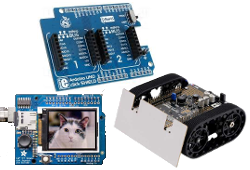
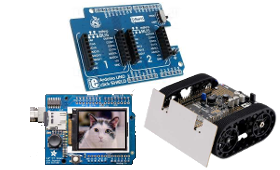
Made changes and additions to FEZ page and TinyCLR intro page as well as other small changes.

diff --git a/fez/intro.md b/fez/intro.md
@@ -1,15 +1,89 @@
 # FEZ Introduction
 ---
-
 ![FEZ](images/fez_noborder.jpg)
 
-FEZ (fast and easy) is the official board for TinyCLR OS. This low-cost, WiFi IoT-ready, Arduino-pinout compatible, and TinyCLR-OS-ready board is everything a developer needs to evaluate TinyCLR OS and to build modern IoT applications.
+FEZ (fast and easy) is the ultimate maker board. This low cost board offers Arduino pinout compatibility, optional WiFi for IOT applications, and can be programmed using multiple programming languages and development environments including:
+
+* Visual Basic and C# using our TinyCLR operating system and Microsoft's Visual Studio development environment.
+* Arduino multi platform development environment.
+* Mbed online development environment using C/C++
+* MicroPython
+* C/C++ using GCC, Keil, or any compiler supporting the Cortex-M4 architecture (for more advanced users).
 
 |  |  |
 |--|--|
-| **TinyCLR** </br> [Learn more...](tinyclr.md) | **Arduino** </br> [Learn more...](arduino.md) |
+| **TinyCLR** </br> Embedded programming using Visual Studio .NET. [Learn more...](tinyclr.md) | **Arduino** </br> Very popular open source standard. [Learn more...](arduino.md) |
 | [![TinyCLR](images/tinyclrlogo.jpg)](tinyclr.md) | [![Arduino](images/arduino_logo.png)](arduino.md) |
-| **Mbed** </br> [Learn more...](mbed.md) | **MicroPython** </br> [Learn more...](python.md) |
+| **Mbed** </br> Online free C/C++ compiler. [Learn more...](mbed.md) | **MicroPython** </br> A version of Python for microcontrollers. [Learn more...](python.md) |
 | [![Mbed Logo](images/mbed_logo.png)](mbed.md) | [![G400S](images/micro_python_logo.png)](python.md) |
-| **Plain Coding!** </br> [Learn more...](plain_coding.md) | **Accessories** </br> [Learn more...](accessories.md)
+| **Plain Coding!** </br> Use the Cortex-M4 compiler of your choice. [Learn more...](plain_coding.md) | **Accessories** </br> Selected to help get you started. [Learn more...](accessories.md)
 | [![Sample Code](images/code.png)](plain_coding.md) | [![Accessories](images/accessories.png)](accessories.md)
+
+## Specifications
+
+| Spec           | Value                           |
+|----------------|---------------------------------|
+| Processor      | STMicroelectronics ST32F401RET6 |
+| Speed          | 84 MHz                          |
+| Internal RAM   | 96 kB                           |
+| Internal Flash | 512 kB                          |
+| Dimensions     | 70.6 x 56.0 x 14.5 mm           |
+
+## Peripherals
+
+*Note:  Many peripherals share I/O pins.  Not all peripherals will be available to your application.*
+
+| Peripheral         | Quantity          |
+|--------------------|-------------------|
+| UART               | 1                 |
+| I2C                | 1                 |
+| SPI                | 1                 |
+| CAN                | 0                 |
+| 12 Bit ADC         | 7                 |
+| PWM                | 9                 |
+| GPIO (5V tolerant) | 22                |
+| IRQ                | 22                |
+| USB Client         | 1                 |
+| WiFi               | Optional          |
+
+## Using NETMF software
+We discourage the use of NETMF software on our products in favor of TinyCLR OS. [Read more](../legacy/netmf/intro.md) about the use of NETMF and TinyCLR OS.
+
+## Using TinyCLR OS
+TinyCLR is our own operating system and provides a means of programming embedded devices using .NET and Visual Studio.  Visual Studio is widely regarded as one of the best (if not the best) integrated development environments available.  The free Community version of Visual Studio can be downloaded here:  [Visual Studio Downloads](https://www.visualstudio.com/downloads/).  For information on setting up TinyCLR to work in Visual Studio please click here:  [TinyCLR Introduction](../tinyclr/intro.md)
+
+To use TinyCLR with the FEZ you must first install the latest verions of the GHI bootloader and TinyCLR firmware.
+
+### Loading the GHI Bootloader v2
+1. Download and save the latest [FEZCLR bootloader file](../tinyclr/loaders/ghi_bootloader.md#fezclr) (v2.x.x).
+2. Download and install the [DfuSe USB device firmware upgrade software](http://www.st.com/en/development-tools/stsw-stm32080.html#getsoftware-scroll) from STMicroelectronics (click on the blue [**Get Software**](http://www.st.com/en/development-tools/stsw-stm32080.html#getsoftware-scroll) button).
+3. Run the DfuSeDemo program installed in the previous step.  It should appear in the programs menu under `STMicroelectronics`.
+4. On the FEZ, hold down the BOOT0 button, press and release the RESET button, and then release the BOOT0 button.  `STM Device in DFU Mode` should now appear under `Available DFU Devices` at the upper left of the DfuSe Demo program screen.
+5. Near the bottom of the DfuSe Demo program window click on the `Choose...` button.  Find the bootloader file you saved in step 1 (FEZCLR Bootloader v2.x.x.dfu), click on it and click on the `Open` button.
+6. Now click on the upgrade button.  If a dialog box appears with "Your device was plugged in DFU mode..." click the `Yes` button.
+7. You should see a message at the bottom of the DfuSe Demo window saying the upgrade was successful.  Now reset the FEZ or click on the `Leave DFU mode` button.
+8. Congratulations!  You have successfully installed the GHI bootloader!
+
+### Loading the Firmware
+
+> [!Tip]
+> First make sure you have bootloader v2 loaded. This needs to be done only once.
+
+#### Using TinyCLR Config
+Our TinyCLR Config tool includes multiple features useful for working with TinyCLR-OS-enabled devices. It simplifies the firmware update and it includes options for accessing the TinyCLR firmware at runtime.
+
+Using this tool is the recommended path; however, the instructions for manually loading the firmware are included below. Read more on the [TinyCLR Config](../tinyclr/tinyclr_config.md) page.
+
+#### Manually Loading the Firmware
+We recommend using the TinyCLR Config tool to update the firmware. As a backup, use these instructions:
+
+1. Download and save the latest [FEZCLR firmware](../tinyclr/downloads.md#fezclr)
+2. Put the FEZ in bootloader mode: Hold down BTN1, press and release the RESET button, and then release BTN1.
+3. Open any terminal software, for example [Tera Term](http://ttssh2.osdn.jp/),
+4. Select serial and pick the COM port associated with your board. (If unsure, check Device Manager)
+5. Press `V` and then enter. The FEZ will respond with the installed boot loader version number (v2.x.x)
+6. Press `U` and then enter to start the upload firmware procedure.
+7. Press `Y` to confirm then enter. The FEZ will respond with `CCCC`...
+8. Go to `File` -> `Transfer` -> `XMODEM` -> `Send` and then check the `1K` option.
+9. Select the firmware file you downloaded in step 1.
+10. When the transfer is complete, use the RESET button to reset the FEZ.

diff --git a/tinyclr/intro.md b/tinyclr/intro.md
@@ -2,7 +2,7 @@
 ---
 ![TinyCLR Logo](images/tinyclrlogo_noborder.jpg)
 
-TinyCLR OS is our path forward that started with the [.NET Micro Framework](http://netmf.com/) to enable managed .NET development using Microsoft's Visual Studio on embedded devices -- including debugging features! All you need to get started is Visual Studio, a TinyCLR device, and a USB cable.
+TinyCLR OS is our path forward that started with the [.NET Micro Framework](http://netmf.com/) to enable managed .NET development using Microsoft's Visual Studio on embedded devices -- including debugging! All you need to get started is Visual Studio, a TinyCLR device, and a USB cable.
 
 |  |  |
 |--|--|
@@ -12,17 +12,22 @@ TinyCLR OS is our path forward that started with the [.NET Micro Framework](http
 | [![TinyCLR Config](images/tinyclr-config_sm.png)](tinyclr_config.md) | [![Download](images/download.jpg)](downloads.md) |
 | **Roadmap** </br> The future of TinyCLR. [Learn more...](roadmap.md) | **Supported Boards** </br> Some boards that run TinyCLR. [Learn more...](boards/intro.md) |
 | [![Road](images/road.jpg)](roadmap.md) | [![Boards](images/boards.png)](boards/intro.md) |
+| **Bootloaders** </br> [Learn more...](loaders/intro.md) |  |
+| [![Bootloader](images/bootloader.png)](loaders/intro.md) |  |
 
 > [!Tip]
-> TinyCLR OS is still an alpha so there is still a lot more to come!
+> TinyCLR OS is still an alpha so there is still a lot more to come!  Take a look at the [**release notes**](release_notes.md) to see what's new and the [**roadmap**](roadmap.md) to see what we have planned.
 
-TinyCLR OS is made for .NET developers. Threading, memory management, timers, event handlers, and many more exist in TinyCLR OS just like they do on full .NET. 
+## Using TinyCLR
 
-For interacting with hardware, TinyCLR OS has an API similar to the Windows 10 IoT Core Extensions API that you may already be familiar with. GPIO, UART, SPI, I2C, ADC, DAC, PWM, and more are all available for you to interact with the embedded world.
+TinyCLR OS opens the world of embedded programming to Microsoft .NET developers. Threading, memory management, timers, event handlers, and many more features are available in TinyCLR OS just like full .NET. 
 
-Better yet, all libraries are available through NuGet. Because of this, there will be no SDK to install or machines to lock to specific versions. Simply use NuGet to download any needed version of any needed library on a per-project basis.
+For interacting with hardware, TinyCLR OS has an API similar to the Windows 10 IoT Core Extensions API that you may already be familiar with. GPIO, UART, SPI, I2C, ADC, DAC, PWM, and more are all available for you to create new embedded and IOT devices.
 
-To set a system to use TinyCLR OS:
+In addition, all libraries are available through NuGet. Because of this, there will be no SDK to install or machines to lock to specific versions. Simply use NuGet to download any needed version of any needed library on a per-project basis.
+
+### TinyCLR Computer Setup
+To set up your computer to use TinyCLR OS:
 1. If you don't already have Visual Studio 2017, download and install the freely available [Visual Studio Community 2017](https://www.visualstudio.com/downloads/).
 2. Make sure to select the `.NET desktop development` workload when installing Visual Studio.
 3. Download and install the newest [TinyCLR OS Visual Studio extension](downloads.md#visual-studio-project-system).
@@ -36,9 +41,12 @@ To set a system to use TinyCLR OS:
 > [!Tip]
 > If you're an existing user of NETMF and still want to use it in addition to TinyCLR OS, don't worry. TinyCLR OS is completely independent of NETMF and works side-by-side with no issues.
 
-Take a look at the [release notes](release_notes.md) to see what's new and the [roadmap](roadmap.md) to see what we have planned.
+### TinyCLR Device Setup
+To use TinyCLR with a device you must first install the latest verions of the GHI bootloader and TinyCLR firmware on the device.  The bootloader is installed first and provides a way to install the firmware and to execute programs which are loaded onto the device.
 
-Interested in running TinyCLR OS on your own device? Take a look at the [porting guide](porting/intro.md) for information on how to get started.
+The TinyCLR firmware includes the Common Language Runtime (CLR) which converts compiled code into machine instructions and manages program execution.  The TinyCLR firmware is also responsible for interacting with Microsoft Visual Studio to load and debug your application programs.
+
+Instructions for installing the bootloader and firmware are provided on the documentation page for the device you are using.  If you want to use your own device, visit our [porting guide](porting/intro.md) for information on how to get started.
 
 ## Internet of Things
 A modern system is not complete without support for the Internet and the cloud. TinyCLR OS includes everything you need to be online.

diff --git a/index.md b/index.md
@@ -12,7 +12,7 @@ This website hosts the technical documentation for our products. Please visit th
 |---|---|
 | **UCM (Universal Compute Module)** </br> Our Universal Compute Modules are based on a 200 pin SO-DIMM form factor.  They adhere to a standard pin out to make it easy to change modules to fit the needs of your product. [Learn More...](ucm/intro.md) | **SCM (Surface Compute Module)** </br> Our Surface Compute Modules are surface mount versions of our UCM modules.  They are ideal for products destined for harsh or high vibration environments. [Learn More...](scm/intro.md) |
 | [![G400D](images/g400d.jpg)](ucm/intro.md)            | [![G400S](images/g400s.jpg)](scm/intro.md)     |
-| **FEZ** </br> The FEZ (fast and easy) is our maker-targetd board with arduino-pinout compatibility and built-in WiFi. [Learn More...](fez/intro.md) | **TinyCLR Operating System** </br> TinyCLR OS is light-weight .NET operating system for IoT and embedded devices. [Learn More...](tinyclr/intro.md) |
+| **FEZ** </br> The FEZ (fast and easy) is our maker-targeted board with arduino compatible pinout and optional WiFi. [Learn More...](fez/intro.md) | **TinyCLR Operating System** </br> TinyCLR OS is light weight .NET operating system for IoT and embedded devices. [Learn More...](tinyclr/intro.md) |
 | [![FEZ](images/fez.jpg)](fez/intro.md)        | [![tinyCLR](images/tinyclrlogo.jpg)](tinyclr/intro.md) |
 
 ***

diff --git a/legacy/netmf/intro.md b/legacy/netmf/intro.md
@@ -33,7 +33,7 @@ Feb 14, 2013 | 4.2 QFE2 | [NETMF and Gadgeteer Package 2013 R1](http://files.ghi
 Feb 17, 2012 | 4.1 RTM | [NETMF 4.1 SDK, for Embedded Master, USBizi and ChipworkX](https://ghistorage.blob.core.windows.net/downloads/NETMF/SDKs/NETMF%204.1%20SDK.zip) (Includes IoT book for FEZ Panda)
 
 # With TinyCLR OS
-Most NETMF devices are still useable today, and with the latest technologies. To use TinyCLR OS, you need to load a new bootloader and the TinyCLR OS firmware.
+Most NETMF devices are still useable today with the latest technology. To use TinyCLR OS, you need to load a new bootloader and the TinyCLR OS firmware.
 
 ## Loading the Bootloader v2
 Before loading the TinyCLR OS firmware, we need load the GHI Electronics' [Bootloader Version 2](../../tinyclr/loaders/ghi_bootloader.md).

diff --git a/fez/accessories.md b/fez/accessories.md
@@ -1,6 +1,6 @@
 # TinyCLR OS Accessories
 ---
-![Accessories](images/accessories.png)
+![Accessories](images/accessories_noborder.png)
 
 There are thousands of accessories that can be used with [boards](../tinyclr/boards/intro.md) supported by TinyCLR OS, especially [FEZ](../fez/intro.md). However, we have hand picked a few of our favorites and then built the necessary drivers for them.
 

diff --git a/tinyclr/loaders/intro.md b/tinyclr/loaders/intro.md
@@ -1,5 +1,7 @@
 # Bootloaders Introduction
 ---
+![Bootloader](images/bootloader_noborder.png)
+
 A bootloader is a small software that boots up the system and runs the firmware. It is also used to update the firmware.
 
 This section covers different bootloader features and usage details.

diff --git a/ucm/toc.md b/ucm/toc.md
@@ -1,4 +1,4 @@
-# [UCM Introduction](intro.md)
+# [Universal Compute Modules](intro.md)
 # [The UCM Standard](standard.md)
 # [UC2550](uc2550.md)
 # [UC5550](uc5550.md)

diff --git a/ucm/intro.md b/ucm/intro.md
@@ -1,4 +1,4 @@
-# UCM Introduction
+# Universal Compute Modules
 ---
 ![G400D](../images/g400d_noborder.jpg)
 
